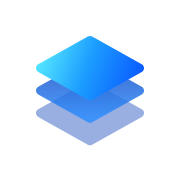
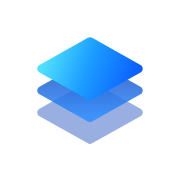
홈 화면 아이콘 로고를 82% 배율로 살짝 줄임
- planner-192·512, apple-touch-icon: 로고 배율 0.84 → 0.82(아이콘 폭 대비 로고 약 60% → 59%), 투명 바탕 유지
- 바뀐 아이콘을 다시 받도록 세 HTML의 manifest ?v=3 → 4

Claude-Session: https://claude.ai/code/session_01Ek3VF4UfDGVBZt9VnxKtgV

diff --git a/index.html b/index.html
@@ -16,7 +16,7 @@
   <title>매매 플래너 (독립형)</title>
   <link rel="icon" href="push-icon.svg" type="image/svg+xml" />
   <!-- 홈 화면에서는 세 페이지를 같은 앱으로 연다. 저장·동기화·푸시 동작은 그대로 둔다. -->
-  <link rel="manifest" href="manifest.webmanifest?v=3" />
+  <link rel="manifest" href="manifest.webmanifest?v=4" />
   <link rel="apple-touch-icon" sizes="180x180" href="icons/apple-touch-icon.png" />
   <meta name="mobile-web-app-capable" content="yes" />
   <meta name="apple-mobile-web-app-capable" content="yes" />

diff --git a/valuation.html b/valuation.html
@@ -15,7 +15,7 @@
   <meta name="theme-color" content="#f5f6f8">
   <link rel="icon" href="push-icon.svg" type="image/svg+xml">
   <!-- 홈 화면에서는 세 페이지를 같은 앱으로 연다. 저장·동기화·푸시 동작은 그대로 둔다. -->
-  <link rel="manifest" href="manifest.webmanifest?v=3">
+  <link rel="manifest" href="manifest.webmanifest?v=4">
   <link rel="apple-touch-icon" sizes="180x180" href="icons/apple-touch-icon.png">
   <meta name="mobile-web-app-capable" content="yes">
   <meta name="apple-mobile-web-app-capable" content="yes">

diff --git a/assets.html b/assets.html
@@ -17,7 +17,7 @@
   <title>자산 현황</title>
   <link rel="icon" href="push-icon.svg" type="image/svg+xml" />
   <!-- 홈 화면에서는 세 페이지를 같은 앱으로 연다. 저장·동기화·푸시 동작은 그대로 둔다. -->
-  <link rel="manifest" href="manifest.webmanifest?v=3" />
+  <link rel="manifest" href="manifest.webmanifest?v=4" />
   <link rel="apple-touch-icon" sizes="180x180" href="icons/apple-touch-icon.png" />
   <meta name="mobile-web-app-capable" content="yes" />
   <meta name="apple-mobile-web-app-capable" content="yes" />
